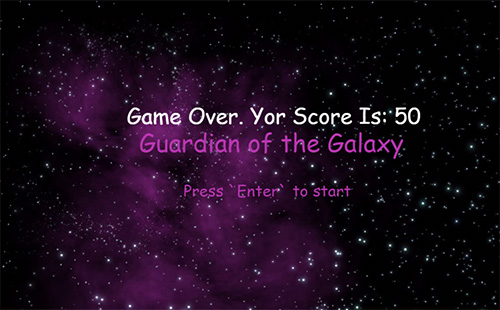
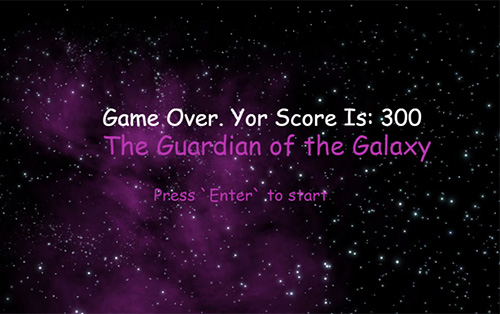
cleared code

diff --git a/game/page.css b/game/page.css
@@ -5,14 +5,13 @@
 }
 
 @font-face {
-   font-family: 'Open Sans';
-   src: url(fonts/OpenSans-Regular.eot);
-   src: local(OpenSans-Regular), url(fonts/OpenSans-Regular.ttf);
+  font-family: 'Open Sans';
+  src: url(fonts/OpenSans-Regular.eot);
+  src: local(OpenSans-Regular), url(fonts/OpenSans-Regular.ttf);
 }
 
 body {
   width: 100%;
-
 }
 
 body a {
@@ -25,7 +24,6 @@ body a {
   margin: 0 auto;
 }
 
-
 .menu {
   padding: 20px 0 10px 0;
   position: fixed;
@@ -35,21 +33,25 @@ body a {
   background-color: #000;
 }
 
-.main-menu {
+.menu ul{
   display: flex;
   justify-content: space-between;
 }
 
-.main-menu a {
+.menu a {
   color: #fff;
 }
 
-.main-menu li:not(:first-child) {
+.menu li:not(:first-child) {
   padding-top: 5px;
 }
 
-.main-menu a:hover {
+.menu a:hover {
   color: #ac66d6;
+}
+
+.menu li:first-child {
+  margin-right: 100px;
 }
 
 header {
@@ -74,13 +76,12 @@ header {
   font-size: 40px;
   line-height: 40px;
   margin-bottom: 25px;
-  font-family: 'Open Sans';
+  font-family: 'Open Sans', Arial, sans-serif;
 }
 
 .slider h1 {
-  font-family: "Roboto",  Arial, sans-serif;
+  font-family: "Roboto", Arial, sans-serif;
   text-transform: uppercase;
-  font-weight: 700;
   font-size: 75px;
   line-height: 75px;
   margin-bottom: 50px;
@@ -88,12 +89,12 @@ header {
 
 button {
   background-color: #ffff00;
-  border-color: #fed136;
+  border-color: #ffff00;
   text-transform: uppercase;
-  font-weight: 700;
   border-radius: 3px;
   font-size: 18px;
   padding: 20px 40px;
+  border-style: none;
 }
 
 button a {
@@ -102,32 +103,28 @@ button a {
 
 button:hover {
   background-color: #ac66d6;
-  border-color: #7b4899;
+  border-color: #7ac66d6;
   transition-duration: 0.8s;
 }
 
-/*.top {
-  top: 0;
-  background: #000;
-}*/
-
-.about-game, .controls, .play, .screenshots {
+.about, .controls, .play, .screenshots {
   padding: 120px 0 100px 0;
 }
 
-.about-game h3, .description h4, .controls h4, .screenshots h4, .play h4 {
+h3 {
   font-size: 40px;
   margin-bottom: 15px;
   font-family: "Roboto",  Arial, sans-serif;
   text-transform: uppercase;
-  font-weight: 700;
   text-align: center;
+  width: 100%;
+  color: #000;
+  margin-bottom: 80px;
 }
 
-.about-game p, .description, .controls p {
-  font-family: 'Open Sans';
+.about p, .description, .controls p {
+  font-family: 'Open Sans', Arial, sans-serif;
   text-transform: none;
-  font-weight: 400;
   color: #777;
   margin: 15px 0;
   font-size: 14px;
@@ -135,10 +132,7 @@ button:hover {
 }
 
 .about-parts {
-  display: flex;
-  justify-content: space-around;
-      margin-top: 70px;
-
+  margin-top: 70px;
 }
 
 .about-parts section {
@@ -147,7 +141,6 @@ button:hover {
   margin: 15px 0;
   text-transform: capitalize;
   font-family: "Roboto",  Arial, sans-serif;
-  font-weight: 700;
   font-size: 18px;
 }
 
@@ -161,32 +154,17 @@ button:hover {
   padding: 80px 0 50px 0;
 }
 
-.description .wrapper, .controls .wrapper .control {
-  display: flex;
-  justify-content: space-around;
-}
-
 .description p, .description img {
   width: 50%;
   font-size: 16px;
 }
 
 .description img {
-    height: 50%;
-}
-
-.description h4, .controls h4, .screenshots h4, .play h4 {
-  width: 100%;
-  color: #000;
-  margin-bottom: 80px;
-}
-
-.control.left {
-  //margin-bottom: 80px;
+  height: 50%;
 }
 
 .controls p {
-margin-top: 65px;
+  margin-top: 65px;
 }
 
 .screenshots {
@@ -196,7 +174,6 @@ margin-top: 65px;
 .screenshots img {
   width: 50%;
   height: 50%;
-  //margin-bottom: 100px;
   padding: 10px;
 }
 
@@ -205,15 +182,14 @@ margin-top: 65px;
   justify-content: space-around;
 }
 
-.play h4 {
-margin-bottom: 40px;
+.play h3 {
+  margin-bottom: 40px;
 }
 
-.play h5 {
+.play h4 {
   text-align: center;
   text-transform: capitalize;
   font-family: 'Open Sans';
-  font-weight: 400;
   font-size: 14px;
   color: #777;
 }
@@ -233,29 +209,30 @@ footer {
 
 footer p {
   text-align: center;
-  text-transform: uppercase;
-  font-family: 'Open Sans';
-  font-weight: 400;
+
+  font-family: 'Open Sans', Arial, sans-serif;
   margin: 10px 0;
   font-size: 14px;
   line-height: 1.75;
+    text-transform: capitalize;
+
 }
 
 footer p:first-child {
-  font-family: "Roboto",  Arial, sans-serif;
-  font-weight: 700;
+  font-family: "Roboto", Arial, sans-serif;
+    text-transform: uppercase;
 }
 
 .footer-bottom {
   background: #000;
   text-align: center;
   padding: 20px;
-  font-family: 'Open Sans';
+  font-family: 'Open Sans', Arial, sans-serif;
+    text-transform: none;
 }
 
 footer a {
   color: #fff;
-
 }
 
 footer a:hover {

diff --git a/game/page.html b/game/page.html
@@ -18,9 +18,9 @@
   <section class="menu">
     <div class="wrapper">
       <nav>
-        <ul class="main-menu">
+        <ul>
           <li><a href="#"><img alt="Logo" class="logo" src="img/logo.png"/></a></li>
-          <li><a href="#about-game">about game</a></li>
+          <li><a href="#about">about game</a></li>
           <li><a href="#description">description</a></li>
           <li><a href="#controls">controls</a></li>
           <li><a href="#screenshots">screenshots</a></li>
@@ -40,10 +40,9 @@
 </header>
 
 <main class="content">
-
-  <section class="about-game wrapper" id="about-game">
+  <section class="about wrapper" id="about">
     <h3>About  game</h3>
-    <div class="about-parts">
+    <div class="about-parts container">
       <section>
         <img class="img-circle" src="img/enemy.png" alt="Enemy"/>
         <h4>Enemy</h4>
@@ -63,8 +62,8 @@
   </section>
 
   <section class="description" id="description">
-    <h4>Description</h4>
-    <div class="wrapper">
+    <h3>Description</h3>
+    <div class="wrapper container">
       <img src="img/alien.gif" alt="Black hole"/>
       <p>The game test the player's speed and reaction time.<br>
         The main goal is to score as many points as you can.<br>
@@ -79,14 +78,14 @@
   </section>
 
   <section class="controls" id="controls">
-    <h4>Controls</h4>
+    <h3>Controls</h3>
     <div class="wrapper">
-      <div class="control left">
+      <div class="container">
         <img src="img/arrow.png" alt="arrows"/>
         <p>Use the arrows to move the ship
         </p>
       </div>
-      <div class="control right">
+      <div class="container">
         <p>Shoot by pressing the Space button
         </p>
         <img src="img/space.jpg" alt="Space button"/>
@@ -97,7 +96,7 @@
 
   <section class="screenshots" id="screenshots">
     <div class="wrapper">
-      <h4>Screenshots</h4>
+      <h3>Screenshots</h3>
       <div class="container">
         <img src="img/screen.jpg" alt="Screenshot"/>
         <img src="img/screen1.jpg" alt="Screenshot"/>
@@ -107,8 +106,8 @@
 
   <section class="play" id="play">
     <div class="wrapper">
-      <h4>Play</h4>
-      <h5>If You want to test this game, be my guest, come on!</h5>
+      <h3>Play</h3>
+      <h4>If You want to test this game, be my guest, come on!</h4>
       <button><a href="index.html">Play now</a></button>
     </div>
   </section>

diff --git a/game/game.js b/game/game.js
@@ -300,7 +300,7 @@
 
         if(lastLives < 0){
             const style = { font: '44px "Comic Sans MS Regular"', fill: '#fff', align: 'center'};
-            this.scoreText = this.game.add.text((WIDTH/2 - 300), (HEIGHT - 220)/2, 'Game Over. Yor Score Is: ' + lastScore,style);
+            this.scoreText = this.game.add.text((WIDTH/2 - 270), (HEIGHT - 220)/2, 'Game Over. Yor Score Is: ' + lastScore,style);
         }
 
         const style = { font: '50px "Comic Sans MS Regular"', fill: '#b735b2', align: 'center' };
